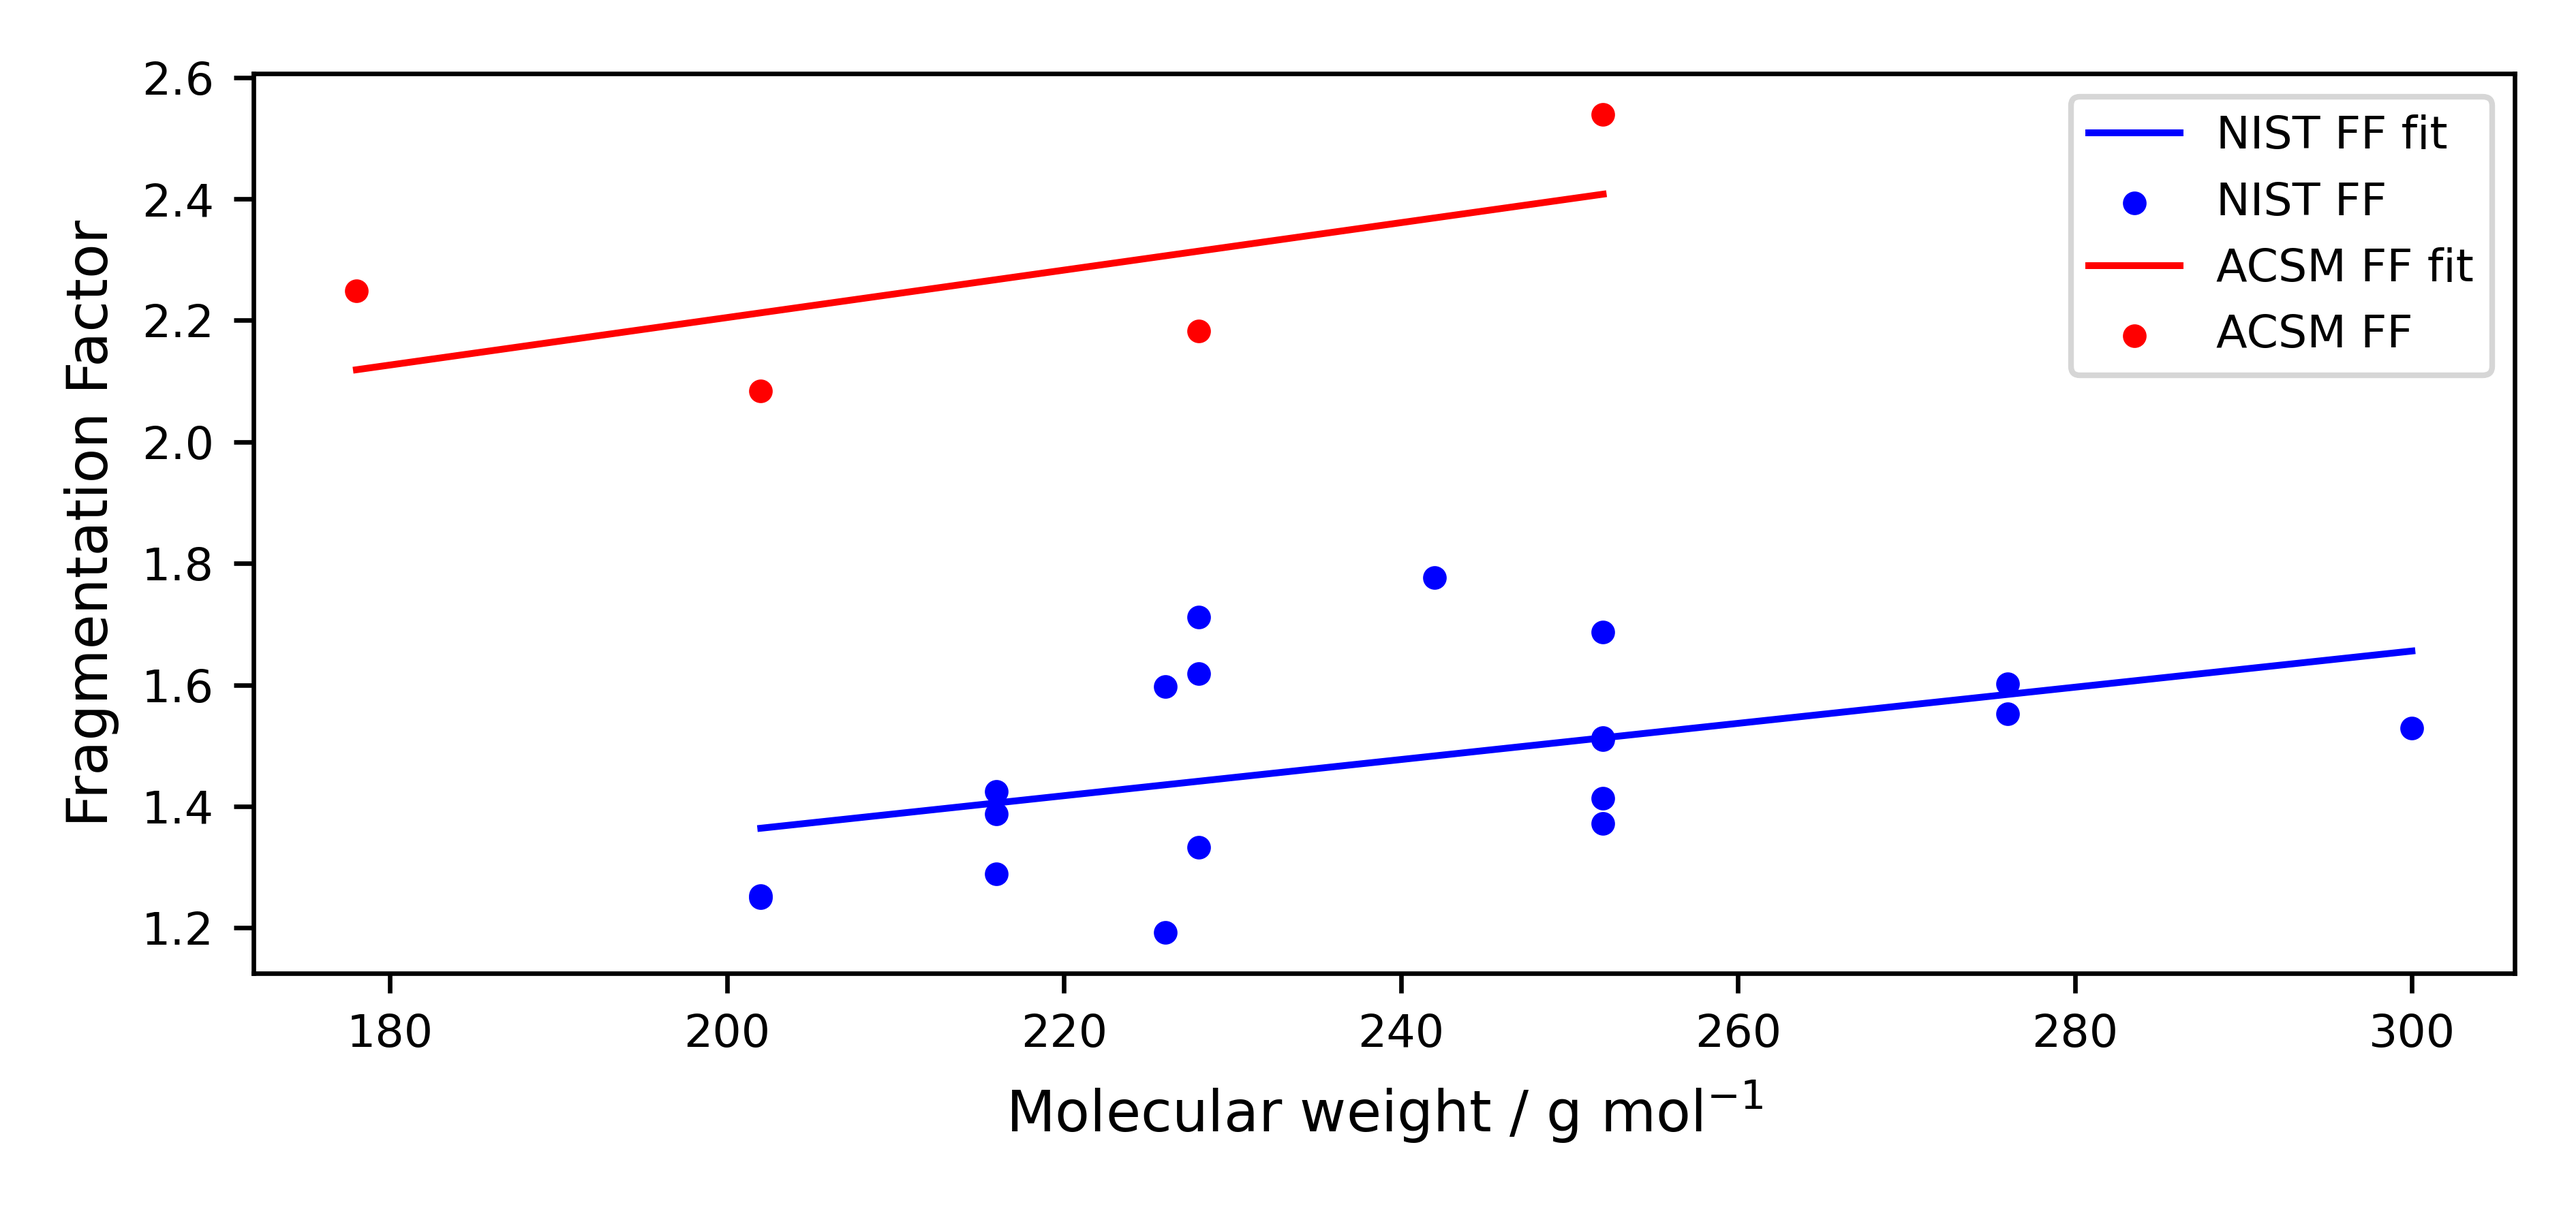
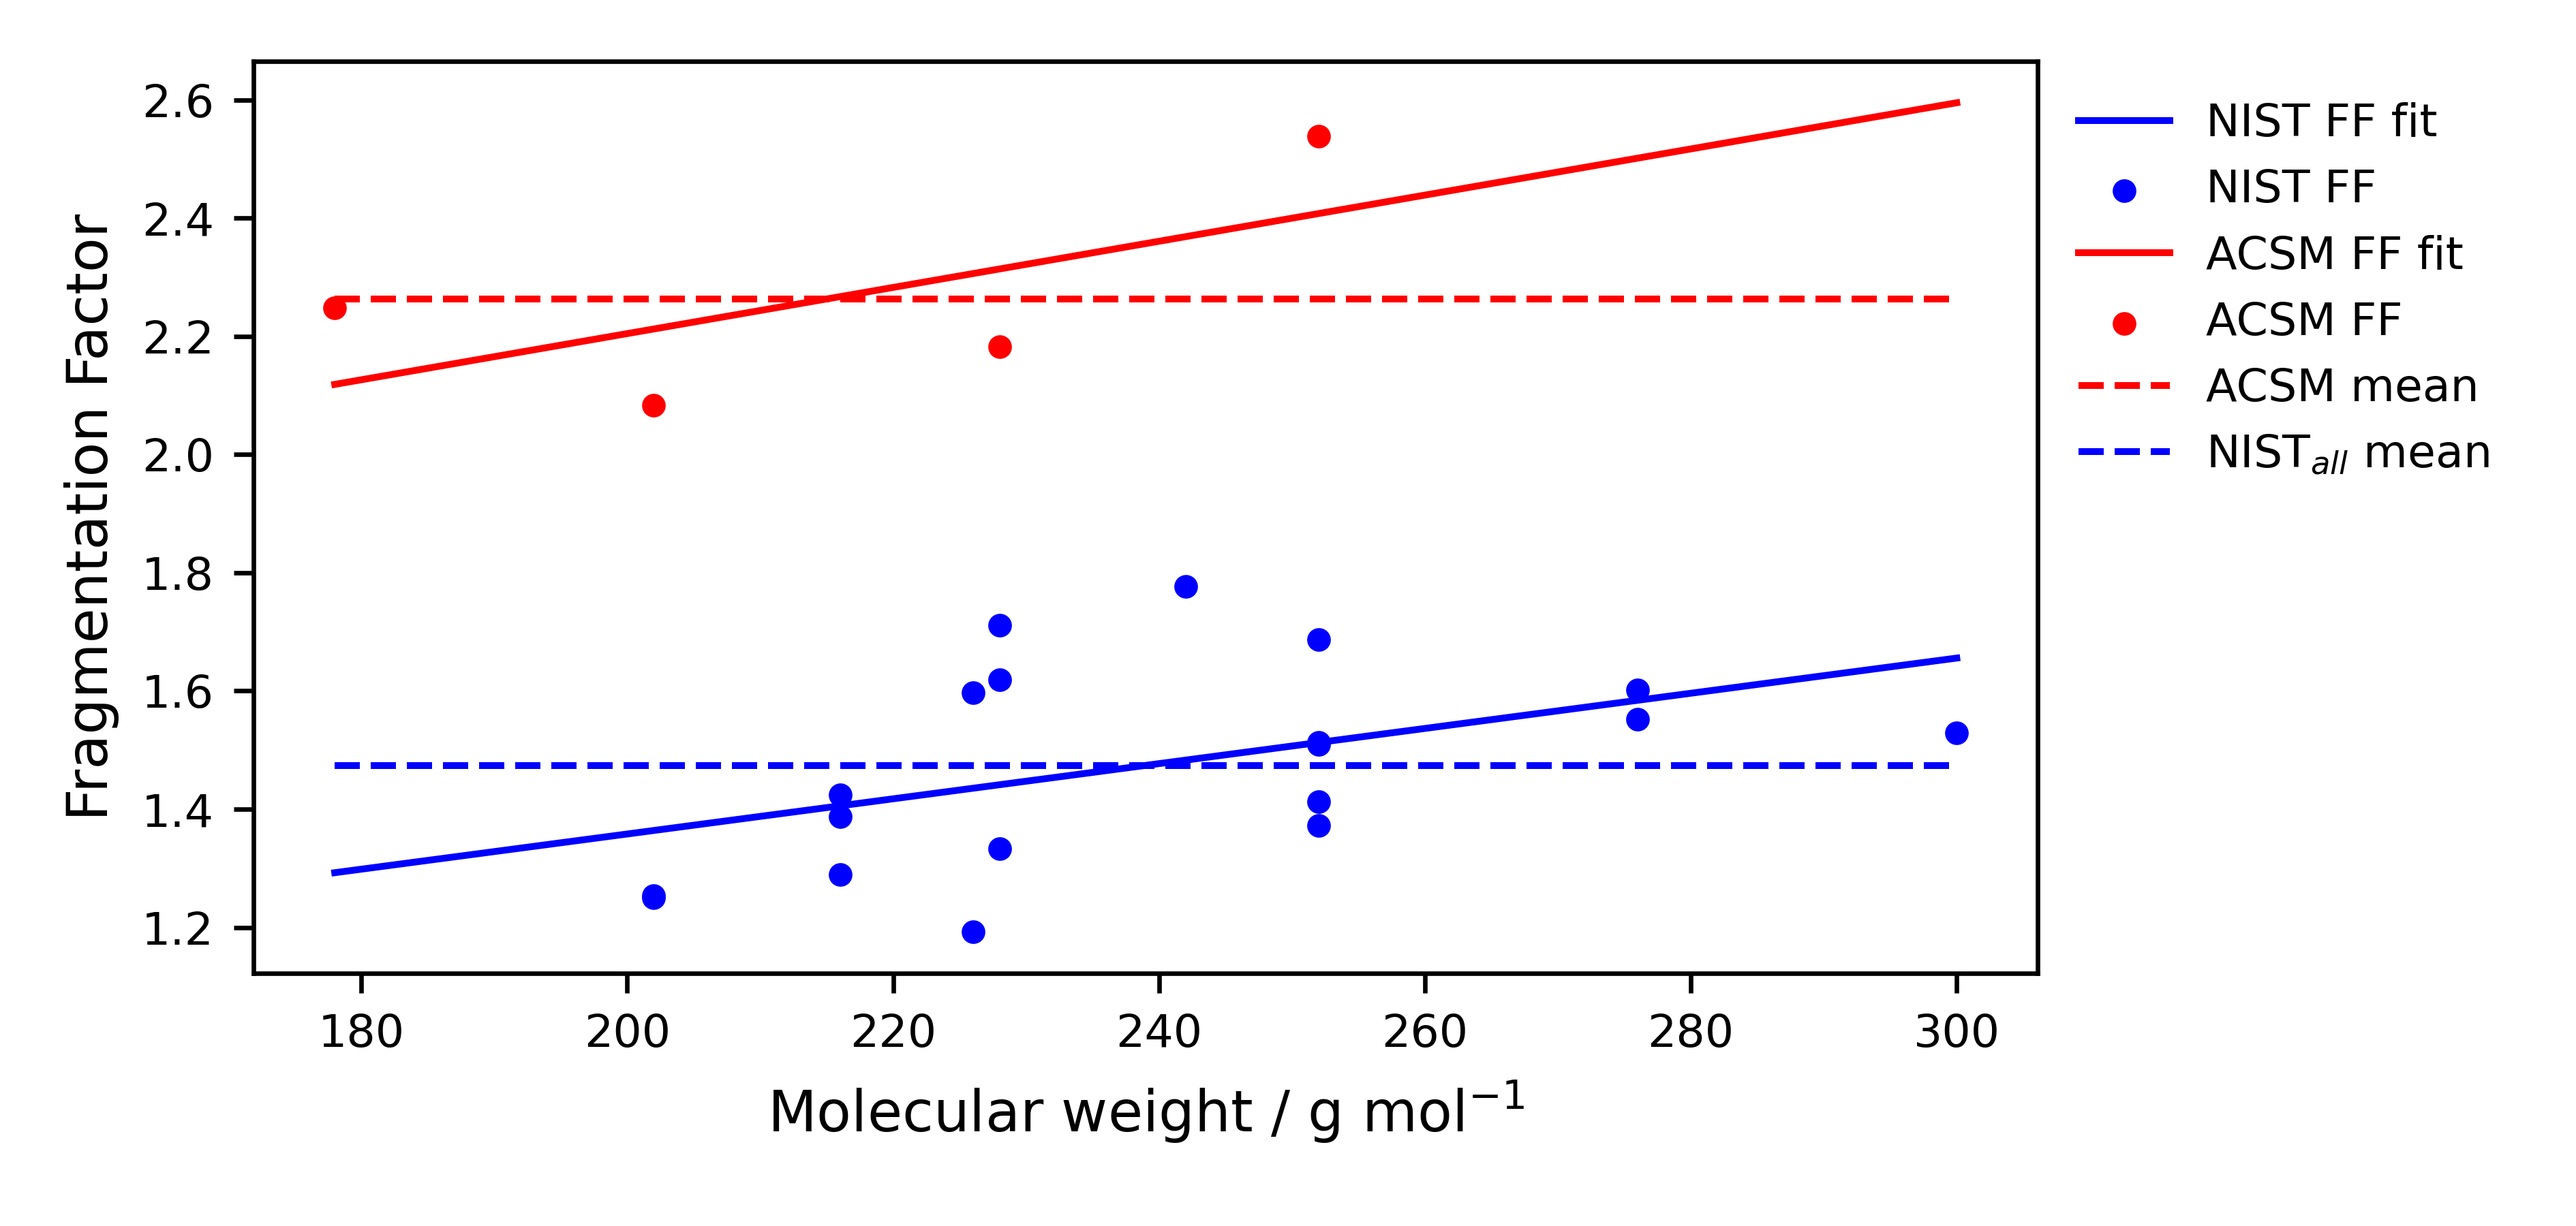
Update

diff --git a/cal.py b/cal.py
@@ -131,7 +131,11 @@ def linear_fit(x, y, a_guess, b_guess):
     
     return a_fit, b_fit, squares_fit, Ndof_fit, R2
 
-def plot_with_LinReg(ax, data_dict, df_keys, a_guess, b_guess, lbl, clr, ax_labels):
+def plot_with_LinReg(ax, data_dict, df_keys, x_plot, a_guess, b_guess, lbl, clr, frame, ax_labels):
+    a_array = np.zeros(len(a_guess))
+    b_array = np.zeros(len(b_guess))
+    df_fitted = pd.DataFrame({'MW': x_plot})
+
     for i, key in enumerate(data_dict.keys()):
         df = data_dict[key]
         x, y = df[df_keys[i][0]], df[df_keys[i][1]]
@@ -139,11 +143,14 @@ def plot_with_LinReg(ax, data_dict, df_keys, a_guess, b_guess, lbl, clr, ax_labe
         lbl_fit = lbl[i] + ' fit'
 
         a, b, squares, ndof, R2 = linear_fit(x, y, a_guess[i], b_guess[i])
-        y_fit = a*x + b
+        y_fit = a*x_plot + b
+        df_fitted[lbl[i]] = y_fit
 
-        ax.plot(x, y_fit, label = lbl_fit, color = clr[i], lw = 1.2)
+        ax.plot(x_plot, y_fit, label = lbl_fit, color = clr[i], lw = 1.2)
         ax.scatter(x, y, label = lbl[i], color = clr[i], s = 10)
 
-    ax.legend(fontsize = 8)
+    ax.legend(fontsize = 8, frameon = frame)
     ax.tick_params(axis = 'both', which = 'major', direction = 'out', bottom = True, left = True, labelsize = 8)
     ax.set(xlabel = ax_labels[0], ylabel = ax_labels[1])
+
+    return a_array, b_array, df_fitted
